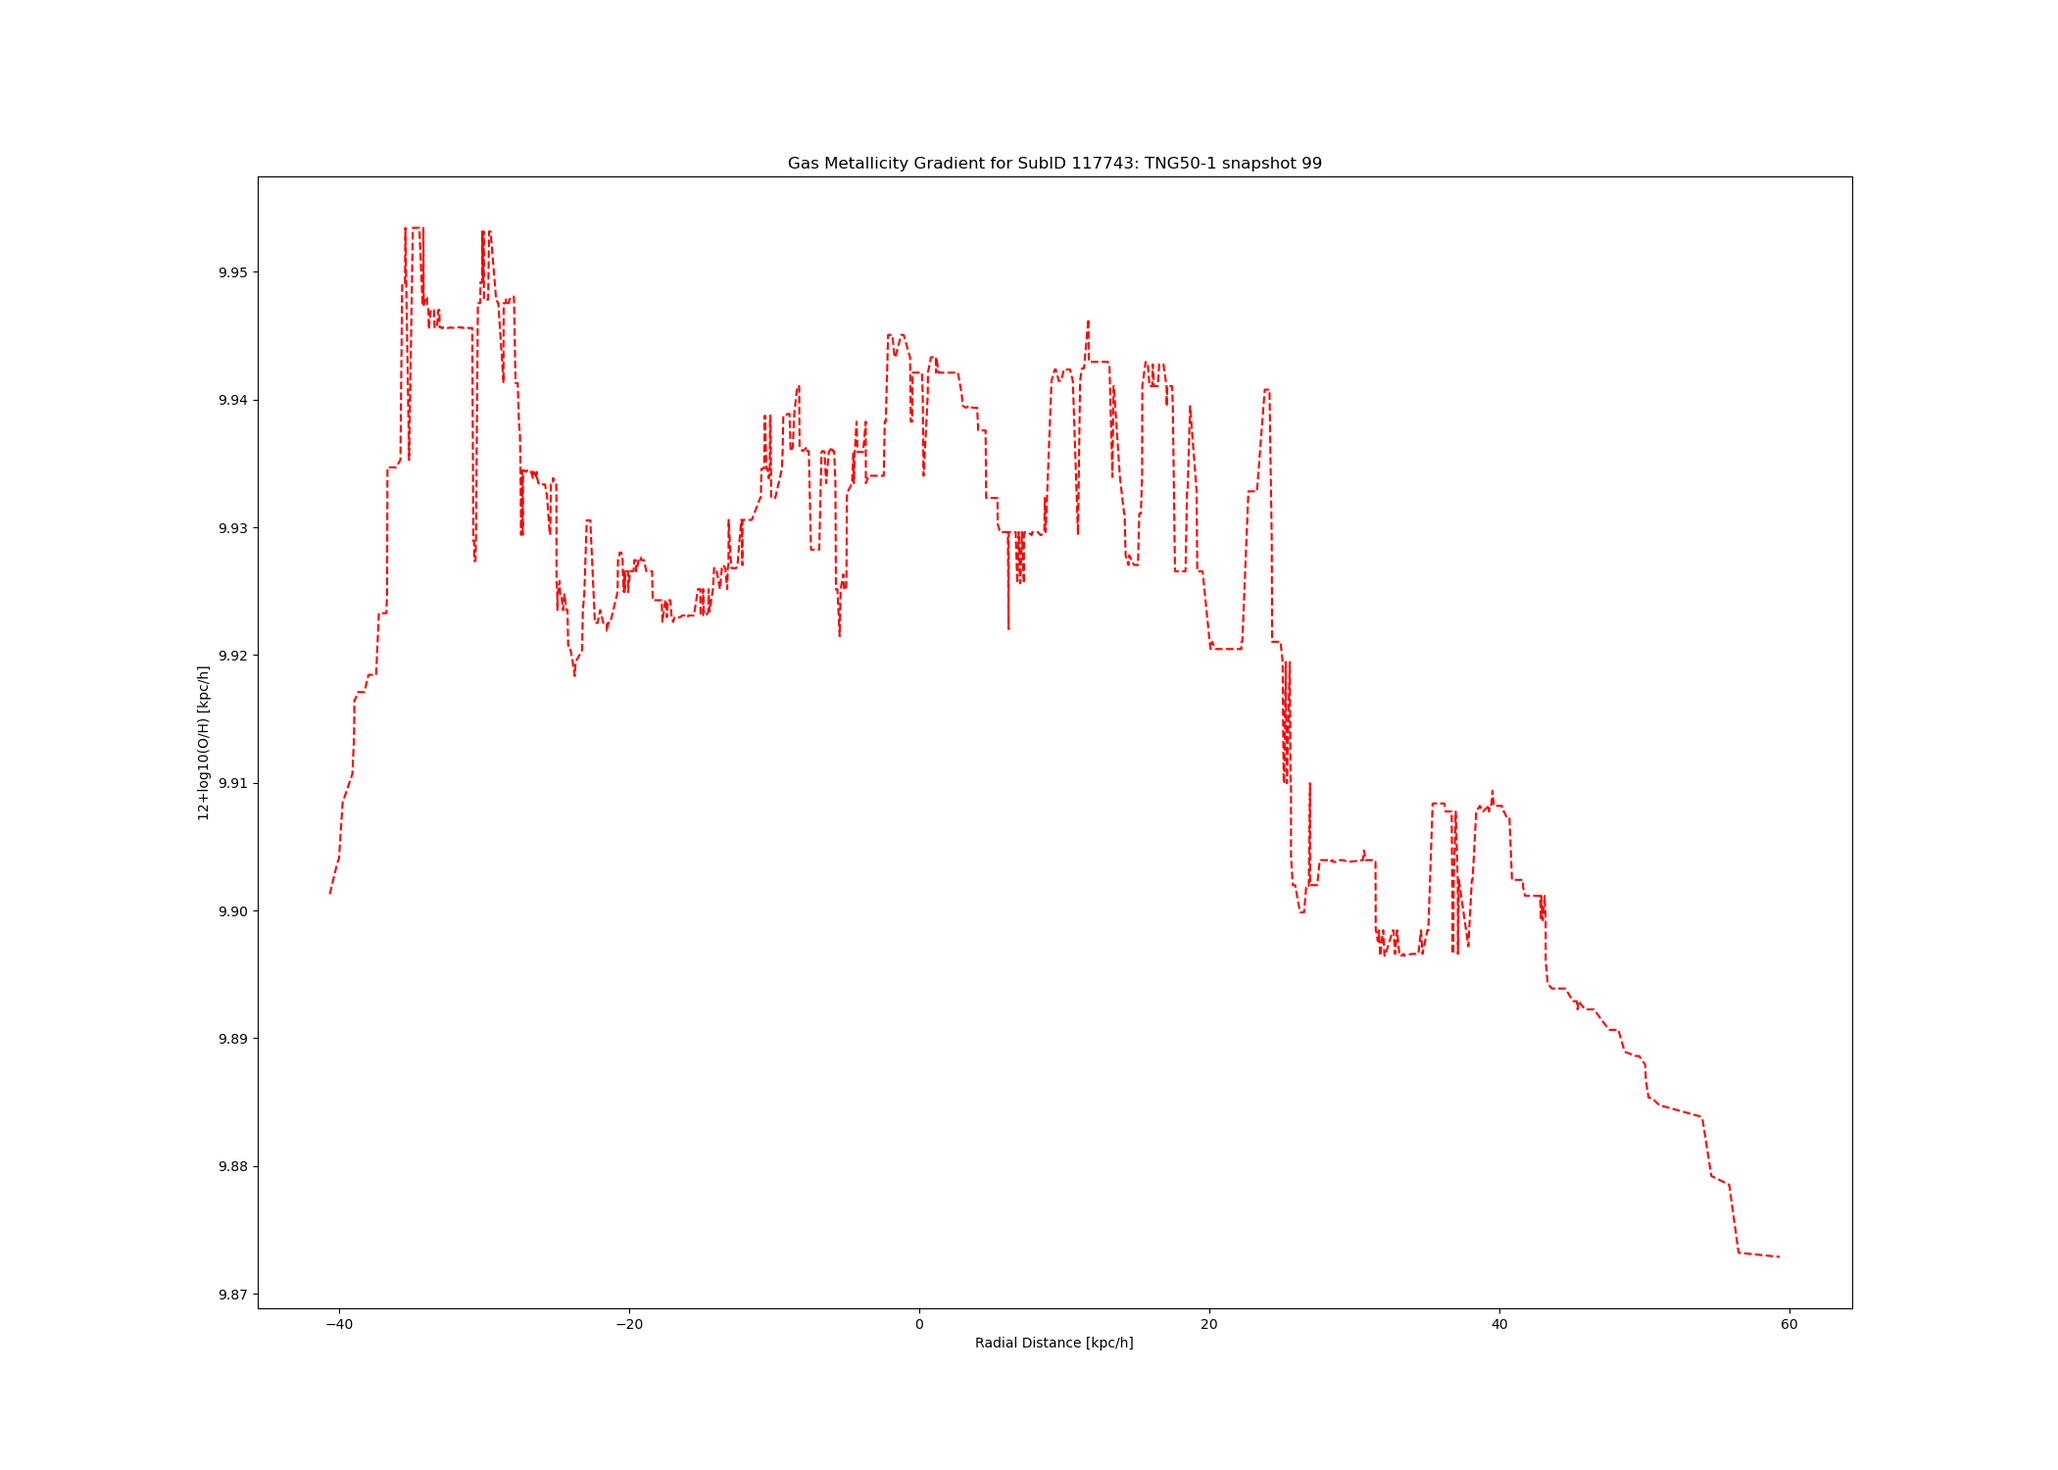
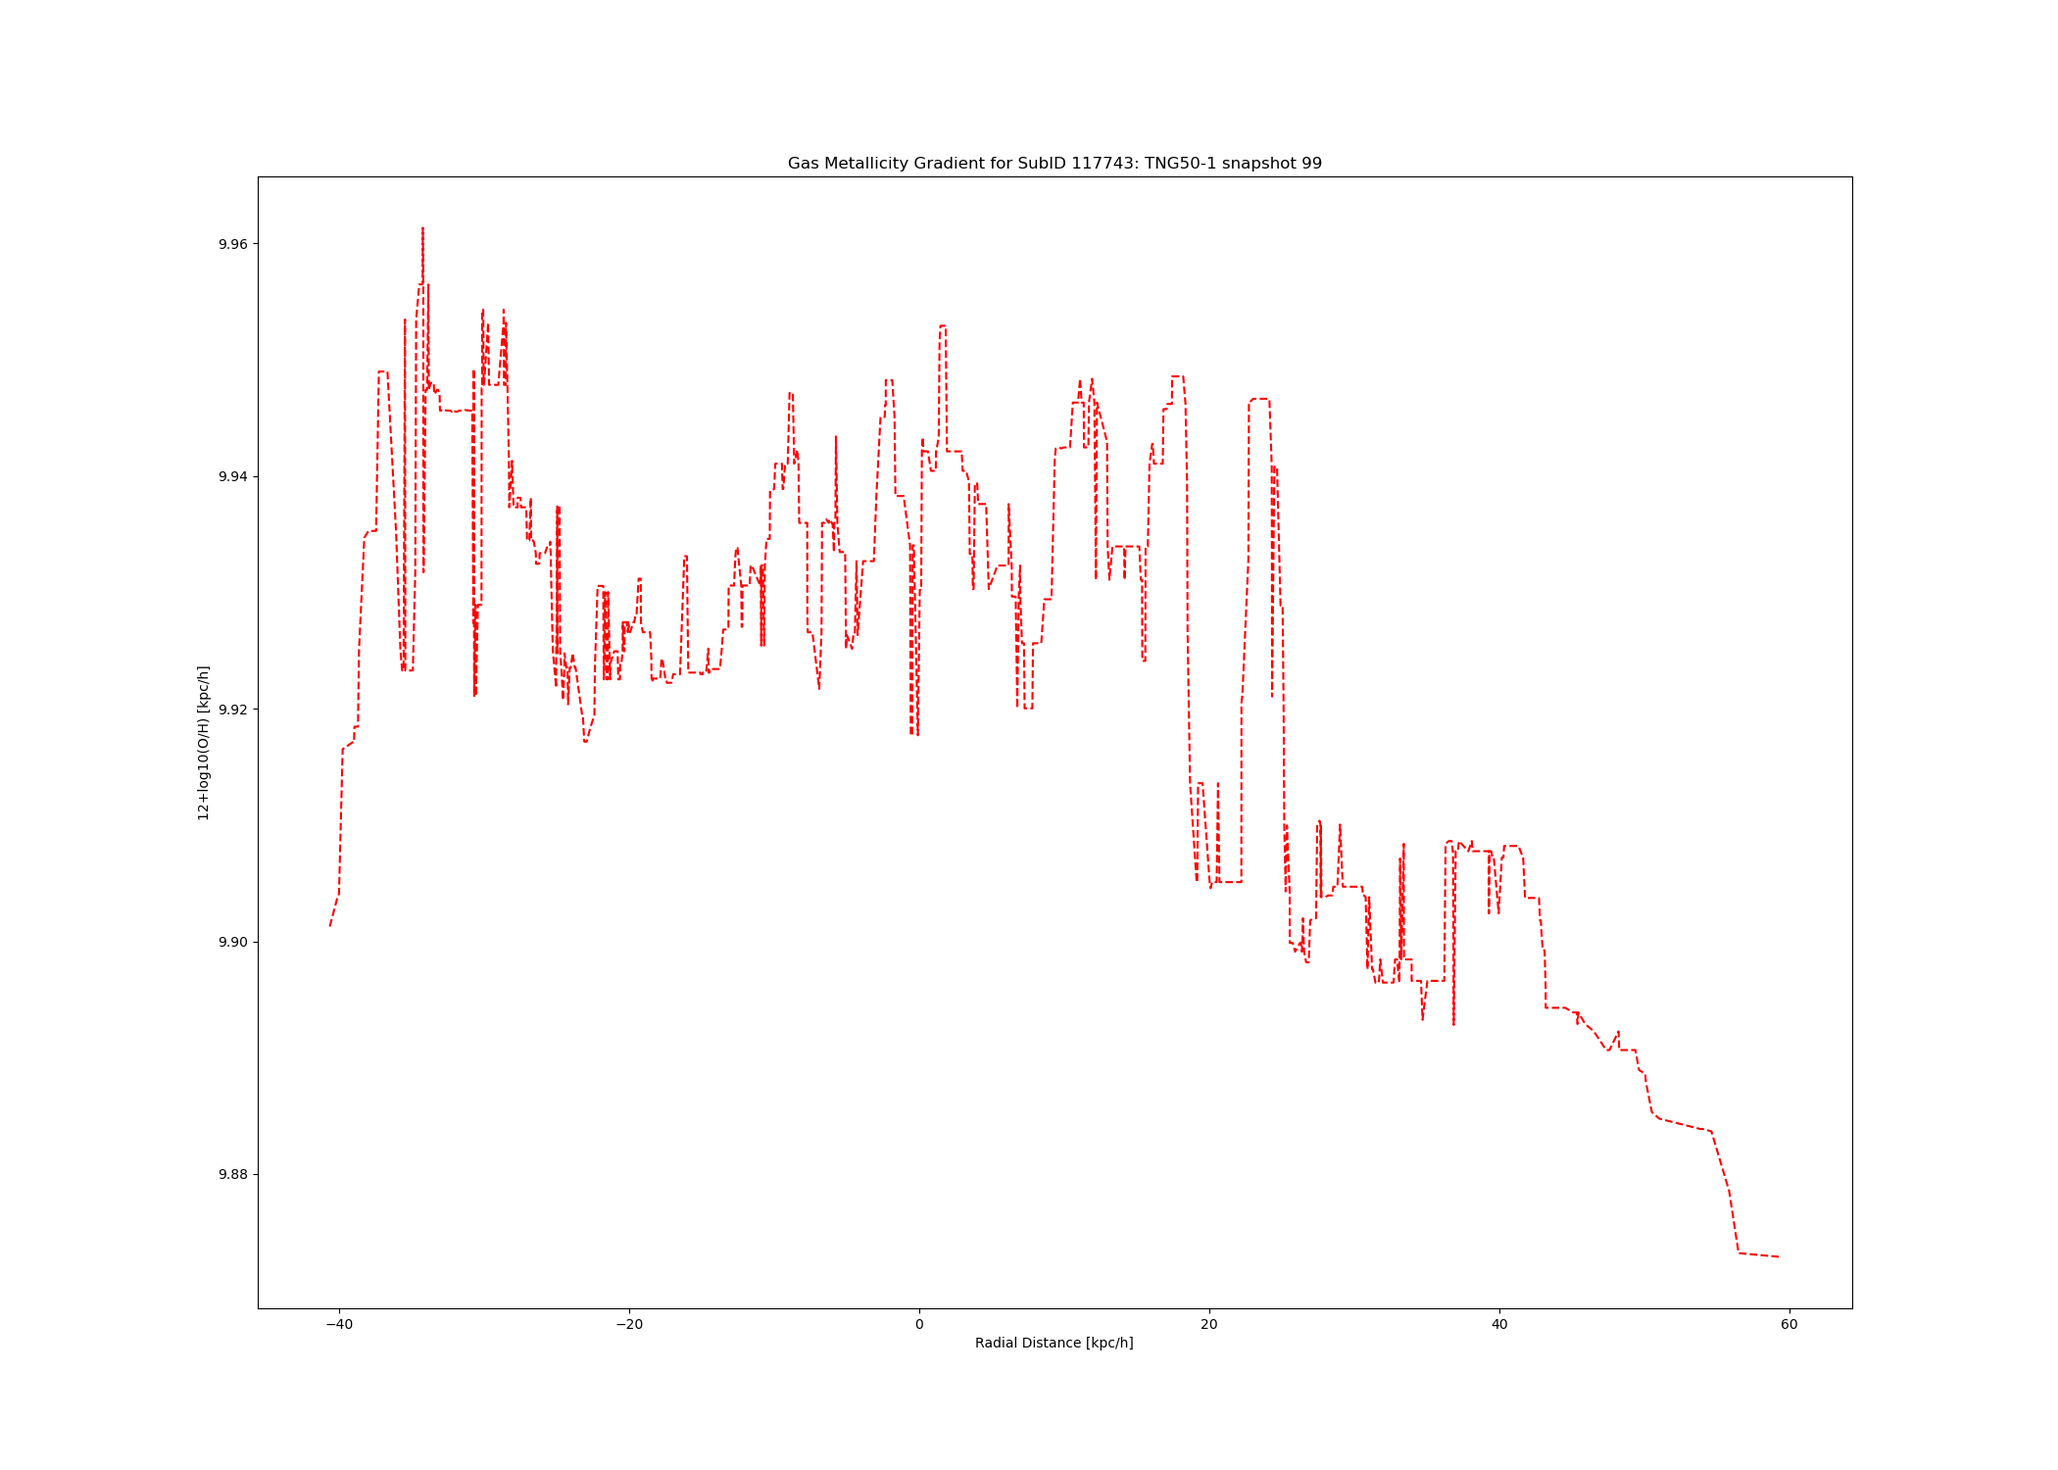
31/10/22

diff --git a/Class_dev/cl_indev.py b/Class_dev/cl_indev.py
@@ -1,6 +1,7 @@
 from itertools import groupby
 import logging
-from random import random # http logging for debugging purpouses
+from random import random
+from re import sub # http logging for debugging purpouses
 import time #runtime calculation import numpy as np #data handling 
 import requests #obtain data from API server
 import h5py #binary file manipulation
@@ -11,6 +12,7 @@ import illustris_python as il
 from scipy.signal import medfilt
 from scipy.optimize import curve_fit
 from joblib import Parallel, delayed
+import os
 headers = {"api-key":"849c96a5d296f005653a9ff80f8e259e"}
 start =time.time()
 from sklearn.preprocessing import MinMaxScaler
@@ -50,7 +52,7 @@ def sq_fit(x,a,b,c):
 
 class galaxy:
     def __init__(self,simID,snapID,subID):
-        
+        np.seterr(divide='ignore', invalid='ignore')
         #object creation requires only 3 input parameters for galaxy selection 
         self.simID = simID #simulation used (TNG100/TNG50)
         self.snapID = snapID #snapshot of study - can be either number of z= (z= required in parenthesis )
@@ -62,7 +64,7 @@ class galaxy:
         hubble =0.7
         
         snap_util =get(baseurl) #use api to easily read snapshot information
-        redshift = snap_util['redshift']
+        redshift = 0
         self.redshift =redshift  # store redshift value as attribute
         
         scalefac = 1./(1.+redshift) #calculate scale factor
@@ -75,6 +77,8 @@ class galaxy:
         ptNumStars = il.snapshot.partTypeNum('stars')
         #pull all data for specific subhalo 
         all_fields= il.groupcat.loadSingle(basePath, snapID, subhaloID = subID)
+        self.test=all_fields['SubhaloMassInRadType'][ptNumGas]
+        
         self.lMgas  = np.log10( all_fields['SubhaloMassInRadType'][ptNumGas]/hubble ) + 10.
         self.lMstar = np.log10( all_fields['SubhaloMassInRadType'][ptNumStars]/hubble ) + 10.
         # Coordinate of particle with minimum binding energy (converted from ckpc/h to kpc)
@@ -162,62 +166,206 @@ class galaxy:
 
 
     def rad_gen(self):
-        self.gas_radial = (np.sqrt((self.pgas_coo[:,0]**2)+(self.pgas_coo[:,1]**2)))
+        self.gas_radial = np.sqrt((self.pgas_coo[:,0]**2)+(self.pgas_coo[:,1]**2))
         #print(self.gas_radial)
-        self.star_radial = (np.sqrt((self.pstar_coo[:,0]**2)+(self.pstar_coo[:,1]**2)))
+        self.star_radial = np.sqrt((self.pstar_coo[:,0]**2)+(self.pstar_coo[:,1]**2))
         #print(self.str_radial)
 
 
 
     def df_gen(self):
         #gas data -> dataframe -> dfg
-        self.dfg = pd.DataFrame({"x":self.pgas_coo[:,0], "y": self.pgas_coo[:,1],
-        "z":self.pgas_coo[:,2],"rad":self.gas_radial,"mass":self.pgas_m,"met":(12+np.log10(self.pgas_met))})
+        self.dfg = pd.DataFrame({"x":self.pgas_coo[:,0], "y": self.pgas_coo[:,1],"z":self.pgas_coo[:,2],"rad":self.gas_radial,"m":self.pgas_dens,"met":(12+np.log10(self.pgas_met))})
         #star data -> dataframe -> dfs
-        self.dfs = pd.DataFrame({"x":self.pstar_coo[:,0], "y": self.pstar_coo[:,1],
-        "z":self.pstar_coo[:,2],"rad":self.star_radial,"mass":self.pstar_m,"met":(12+np.log10(self.pstar_met))})
-
+        self.dfs = pd.DataFrame({"x":self.pstar_coo[:,0], "y": self.pstar_coo[:,1],"z":self.pstar_coo[:,2],"rad":self.star_radial,"m":self.pstar_m,"met":(12+np.log10(self.pstar_met))})
 
 
     def rad_norm(self,factor):
         #normalise dataframe radial values -> all subhalos will have identical x scale set by factor input 
-        self.dfg.rad = factor*((self.dfg.rad-self.dfg.rad.mean())/(self.dfg.rad.max()-self.dfg.rad.min()))
+        self.dfg.rad = factor*((self.dfg.rad-self.dfg.rad.min())/(self.dfg.rad.max()-self.dfg.rad.min()))
         #
-        self.dfs.rad = factor*((self.dfs.rad-self.dfs.rad.mean())/(self.dfs.rad.max()-self.dfs.rad.min()))
+        self.dfs.rad = factor*((self.dfs.rad-self.dfs.rad.min())/(self.dfs.rad.max()-self.dfs.rad.min()))
 
 
 
     def fit_lin(self,dfin):
 
-        popt,pcov = curve_fit(linear_fit,dfin['rad'],dfin['met'])
+        #popt,pcov = curve_fit(linear_fit,dfin['rad'],dfin['met'])
         #apply curve_fit function to particle data, for either linear or curved fit, 
         dfin.sort_values(by='rad', inplace=True)
-        medfit = medfilt(dfin['met'],kernel_size=5) 
+        medfit = medfilt(dfin['met'],kernel_size=3) 
 
         plt.figure(figsize=(15,10))
         #sort dataframe values by radial value -> plot clarity for line plotting
         plt.plot(dfin['rad'], medfit,'g-')
         #plt.plot(dfin['rad'], dfin['met'],'g+')
-        plt.plot(dfin['rad'], linear_fit(dfin['rad'],*popt),'r--')
+        #plt.plot(dfin['rad'], linear_fit(dfin['rad'],*popt),'r--')
         plt.xlabel("Radial Distance (Normalised Code Units)")
         plt.ylabel("12+log10(O/H)")
         plt.title("Metallicity Gradient for {}({}-snap-{})".format(self.subID, self.simID, self.snapID))
         filename = ("fitpng/lin_fit_{}.png".format(self.subID))
         plt.savefig(filename)
         plt.close()
+class visualisation:
+    def __init__(self, df_g, df_s, subID, snapID, simID,crit_dist):
+        self.df_g = df_g #gas dataframe
+        self.df_s = df_s #stars dataframe
+        self.subID = subID
+        self.snapID = snapID
+        self.simID = simID
+        self.crit_dist = crit_dist
+    def visual(self,type, quant, decp, annuli_pc):
+        if (type=='gas'):
+            df = self.df_g
+            if(quant=='mass'):
+                df_valid = df.round(decp)
+                annul1= annuli_pc*self.crit_dist
+                df_valid = df[df['rad']<annul1]
+                df_valid = df_valid.groupby(['x','y'])['m'].sum().reset_index()
+                plt.figure(figsize=(20,12), dpi=500)
+                plt.style.use('dark_background')
+                plt.scatter(-df_valid['x'],-df_valid['y'],c=(np.log10(df_valid['m'])),cmap='inferno', vmin=(min(np.log10(df_valid['m']))),vmax =(max(np.log10(df_valid['m']))))
+                plt.xlabel('$\Delta x$ [kpc/h]')
+                plt.ylabel('$\Delta y$ [kpc/h]')
+                plt.colorbar(label='log10(Gas Mass)')
+                plt.title('Gas Density of SubID {}: {} snapshot {}'.format(self.subID, self.simID, self.snapID))
+                filename = 'suppng/Mgass_{}_sub_{}.png'.format(self.simID, self.subID)
+                plt.savefig(filename)
+                plt.close()
+            elif(quant=='metallicity'):
+                df_valid = df.round(decp)
+                annul1= annuli_pc*self.crit_dist
+                df_valid = df[df['rad']<annul1]
+                df_valid = df_valid.groupby(['x','y'])['met'].sum().reset_index()
+                plt.figure(figsize=(20,12), dpi=500)
+                plt.style.use('dark_background')
+                plt.scatter(-df_valid['x'],-df_valid['y'],c=(np.log10(df_valid['m'])),cmap='inferno', vmin=(min(np.log10(df_valid['m']))),vmax =(max(np.log10(df_valid['m']))))
+                plt.xlabel('$\Delta x$ [kpc/h]')
+                plt.ylabel('$\Delta y$ [kpc/h]')
+                plt.colorbar(label='log10(Gas Metallicity)')
+                plt.title('Metallicity Density of SubID {}: {} snapshot {}'.format(self.subID, self.simID, self.snapID))
+                filename = 'temppng/met_gas_{}_sub_{}.png'.format(self.simID, self.subID)
+                plt.savefig(filename)
+                plt.close()
 
+        elif(type=='stars'):
+            df = self.df_s
+            if (quant=='mass'):
+                df_valid = df.round(decp)
+                annul1= annuli_pc*self.crit_dist
+                df_valid = df[df['rad']<annul1]
+                df_valid = df_valid.groupby(['x','y'])['m'].sum().reset_index()
+                plt.figure(figsize=(21,15))
+                plt.style.use('dark_background')
+                plt.scatter(-df_valid['x'],-df_valid['y'],c=(np.log10(df_valid['m'])),cmap='inferno', vmin=np.log10(min(df_valid['m'])), vmax = np.log10(max(df_valid['m'])))
+                plt.xlabel('$\Delta x$ [kpc/h]')
+                plt.ylabel('$\Delta y$ [kpc/h]')
+                plt.colorbar(label='log10(Stellar Mass)')
+                plt.title('Gas Density of SubID {}: {} snapshot {}'.format(self.subID, self.simID, self.snapID))
+                filename = 'temppng/Mstar_{}_sub_{}.png'.format(self.simID, self.subID)
+                plt.savefig(filename)
+                plt.close()
+            
+            elif(quant=='metallicity'):
+                df_valid = df.round(decp)
+                annul1= annuli_pc*self.crit_dist
+                df_valid = df[df['rad']<annul1]
+                df_valid = df_valid.groupby(['x','y'])['m'].sum().reset_index()
+                plt.figure(figsize=(21,15))
+                plt.style.use('dark_background')
+                plt.scatter(-df_valid['x'],-df_valid['y'],c=(df_valid['met']),cmap='inferno', vmin=min(df_valid['m']), vmax = max(df_valid['m']))
+                plt.xlabel('$\Delta x$ [kpc/h]')
+                plt.ylabel('$\Delta y$ [kpc/h]')
+                plt.colorbar(label='Metallicity)')
+                plt.title('Metallicity Density of SubID {}: {} snapshot {}'.format(self.subID, self.simID, self.snapID))
+                filename = 'temppng/met_star_{}_sub_{}.png'.format(self.simID, self.subID)
+                plt.savefig(filename)
+                plt.close()
+
+    def metgrad (self,type,decp, annuli_pc):
+        if (type=='gas'):
+            df = self.df_g
+            annul1= annuli_pc*self.crit_dist
+            df_valid = df[abs(df['rad'])<annul1]
+            df_valid.rad = 100*((df_valid.rad-df_valid.rad.mean())/(df_valid.rad.max()-df_valid.rad.min()))
+            df_valid.sort_values(by='rad',inplace=True)
+            df_valid = df_valid[abs(df_valid['met'])>0]
+            medfit = medfilt(df_valid['met'],kernel_size=21)
+            plt.figure(figsize=(21,15))
+            plt.plot(df_valid['rad'], (12+np.log10(medfit)), 'r--')
+            #plt.scatter(df_valid['rad'], (12+np.log10(df_valid['met'])), c=df_valid['m'], cmap = 'viridis')
+            plt.xlabel('Radial Distance [kpc/h]')
+            plt.ylabel('12+log10(O/H) [kpc/h]')
+            #plt.colorbar(label='Gass mass')
+            plt.title('Gas Metallicity Gradient for SubID {}: {} snapshot {}'.format(self.subID, self.simID, self.snapID))
+            filename = 'metgradGAS_{}_sub_{}.png'.format(self.simID, self.subID)
+            plt.savefig(filename)
+            plt.close()
+
+        elif (type=='stars'):
+            df = self.df_s
+            annul1= annuli_pc*self.crit_dist
+            df_valid = df[df['rad']<annul1]
+            df_valid=df_valid.round()
+            df_valid.groupby(['rad'])['met'].mean().reset_index()
+            df_valid.sort_values(by='rad', inplace=True)
+            plt.figure(figsize=(21,15))
+            plt.scatter(df_valid['rad'], (12+np.log10(df_valid['met'])), c=df_valid['m'], cmap = 'viridis')
+            plt.xlabel('Radial Distance [kpc/h]')
+            plt.ylabel('12+log10(O/H) [kpc/h]')
+            plt.colorbar(label='Gass mass')
+            plt.title('Stellar Metallicity gradient for SubID {}: {} snapshot {}'.format(self.subID, self.simID, self.snapID))
+            #temppng/
+            filename = 'metgradSTAR_{}_sub_{}.png'.format(self.simID, self.subID)
+            plt.savefig(filename)
+            plt.close()
+#'''
 df_in = pd.read_csv("verify.csv")
-valid_id=[]
-idlist = list(df_in['id'])
-for i in range(200):
-    valid_id.append(idlist[i])
-print(valid_id)
-for i in valid_id:
-    sub1 = galaxy("TNG50-1", 99, i)
-    sub1.galcen()
-    sub1.ang_mom_align('gas')
-    sub1.rad_gen()
-    sub1.df_gen()
-    sub1.rad_norm(100)
-    sub1.fit_lin(sub1.dfg)
+valid_id = list(df_in['id'])
 
+#'''
+'''
+sub1 = galaxy("TNG50-1", 99, 117743)
+sub1.galcen()
+sub1.ang_mom_align('gas')
+sub1.rad_gen()
+sub1.df_gen()
+sub1.rad_norm(100)
+sub1.fit_lin(sub1.dfg)
+'''
+invalids =[]
+def runlist(i):
+    try:
+        sub1 = galaxy("TNG50-1", 99, i)
+        if sub1.test==0:
+            print("sub invalid")
+            invalids.append(i)
+        else:
+            sub1.galcen()
+            sub1.ang_mom_align('gas')
+            sub1.rad_gen()
+            sub1.df_gen()
+            sub1plot=visualisation(sub1.dfg, sub1.dfs,sub1.subID,sub1.snapID,sub1.simID,sub1.crit_dist)
+            sub1plot.visual('gas','mass',1,1)
+            print("Subhalo {} done".format(i))
+    
+    except OSError:
+        print("corrupted file skipped")
+        invalids.append(i)
+    except KeyError:
+        print("keyerror - skipped")
+        invalids.append(i)
+
+returns = Parallel(n_jobs=20)(delayed(runlist)(i) for i in valid_id)
+filenames=[]
+for i in invalids:
+    filename = "fitpng/lin_fit_{}.png".format(i)
+    filenames.append(filename)
+for j in filenames:
+    try:
+        os.remove(j)
+    except OSError:
+        print('%%%woo')
+
+end = time.time()
+print("Programme Runtime = {}".format(end-start))

diff --git a/Class_dev/cl_redev.py b/Class_dev/cl_redev.py
@@ -167,10 +167,10 @@ class galaxy:
 
     def dataframegen(self,type):
         if(type=='gas'):
-            df=pd.DataFrame({"x": self.pgas_coo[:,0], "y":self.pgas_coo[:,1],"z":self.pgas_coo[:,2], "rad":self.pgas_rad_len,"m":self.pgas_dens,"met": self.pgas_met})
+            df=pd.DataFrame({"x": self.pgas_coo[:,0], "y":self.pgas_coo[:,1],"z":self.pgas_coo[:,2], "rad":abs(self.pgas_rad_len),"m":self.pgas_dens,"met": self.pgas_met})
             #print(df['rad'])
         elif(type=='star'):
-            df=pd.DataFrame({"x": self.pstar_coo[:,0], "y":self.pstar_coo[:,1],"z":self.pstar_coo[:,2], "rad":self.pstar_rad_len,"m":self.pstar_m,"met":self.pstar_met})
+            df=pd.DataFrame({"x": self.pstar_coo[:,0], "y":self.pstar_coo[:,1],"z":self.pstar_coo[:,2], "rad":abs(self.pstar_rad_len),"m":self.pstar_m,"met":self.pstar_met})
         self.df = df
         return df
 
@@ -220,7 +220,7 @@ class visualisation:
                 plt.ylabel('$\Delta y$ [kpc/h]')
                 plt.colorbar(label='log10(Gas Mass)')
                 plt.title('Gas Density of SubID {}: {} snapshot {}'.format(self.subID, self.simID, self.snapID))
-                filename = 'temppng/Mgass_{}_sub_{}.png'.format(self.simID, self.subID)
+                filename = 'suppng/Mgass_{}_sub_{}.png'.format(self.simID, self.subID)
                 plt.savefig(filename)
                 plt.close()
             elif(quant=='metallicity'):
@@ -277,11 +277,11 @@ class visualisation:
         if (type=='gas'):
             df = self.df_g
             annul1= annuli_pc*self.crit_dist
-            df_valid = df[df['rad']<annul1]
+            df_valid = df[abs(df['rad'])<annul1]
             df_valid.rad = 100*((df_valid.rad-df_valid.rad.mean())/(df_valid.rad.max()-df_valid.rad.min()))
             df_valid.sort_values(by='rad',inplace=True)
             df_valid = df_valid[abs(df_valid['met'])>0]
-            medfit = medfilt(df_valid['met'],kernel_size=31)
+            medfit = medfilt(df_valid['met'],kernel_size=21)
             plt.figure(figsize=(21,15))
             plt.plot(df_valid['rad'], (12+np.log10(medfit)), 'r--')
             #plt.scatter(df_valid['rad'], (12+np.log10(df_valid['met'])), c=df_valid['m'], cmap = 'viridis')
@@ -312,7 +312,7 @@ class visualisation:
             plt.close()
 galaxy_df = pd.read_csv("test1.csv")
 valid_galaxies = galaxy_df[galaxy_df['mass']<9.5]
-307531
+
 '''
 sub1 = galaxy("TNG50-1", 99, 307614)
 sub1.galcen()
@@ -337,10 +337,10 @@ def met_plot(i):
     dfs2=sub1.height_filter(dfs)
     #dfg2 = sub1.rad_normalise(dfg2)
     sub1plot = visualisation(dfg2, dfs2,sub1.subID, sub1.snapID, sub1.simID, sub1.crit_dist)
-    sub1plot.metgrad('gas',1,1)
+    sub1plot.visual('gas','mass',4,1)
     return print(".") 
 met_plot(117743)
-#returns = Parallel(n_jobs=5)(delayed(met_plot)(i) for i in valid_galaxies['id'])
+returns = Parallel(n_jobs=15)(delayed(met_plot)(i) for i in valid_galaxies['id'])
 #'''
 
 end = time.time()
